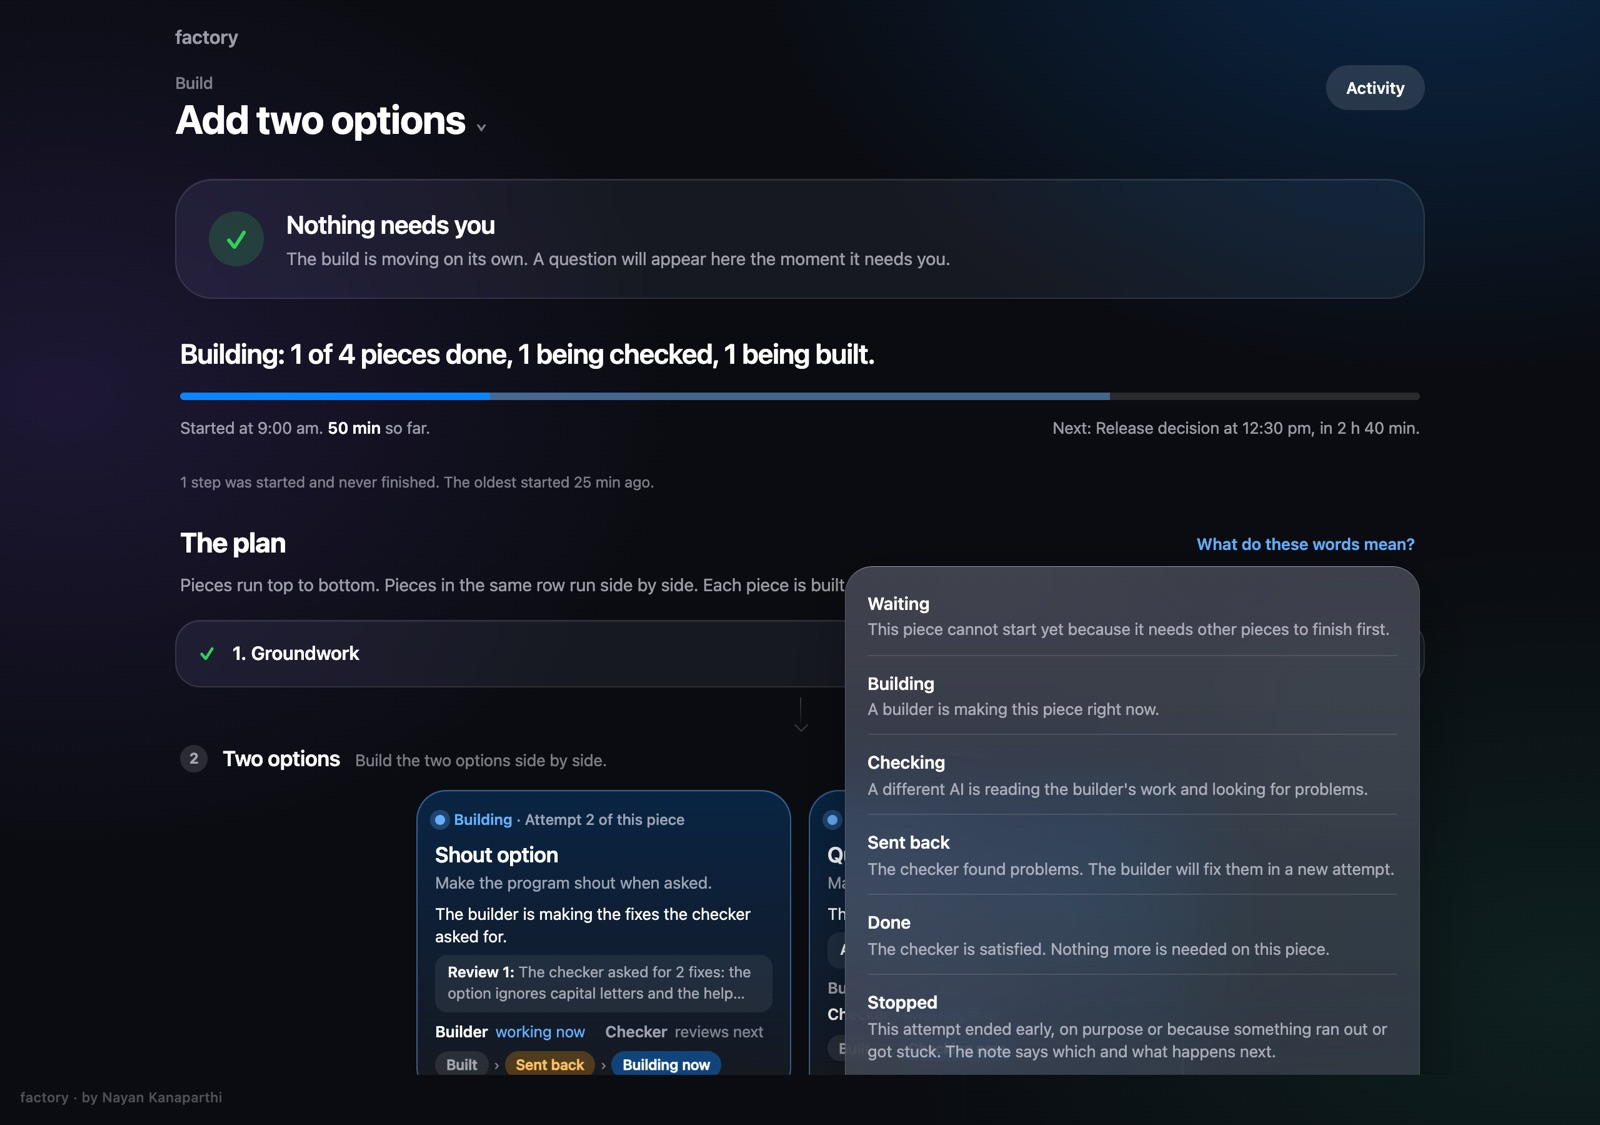
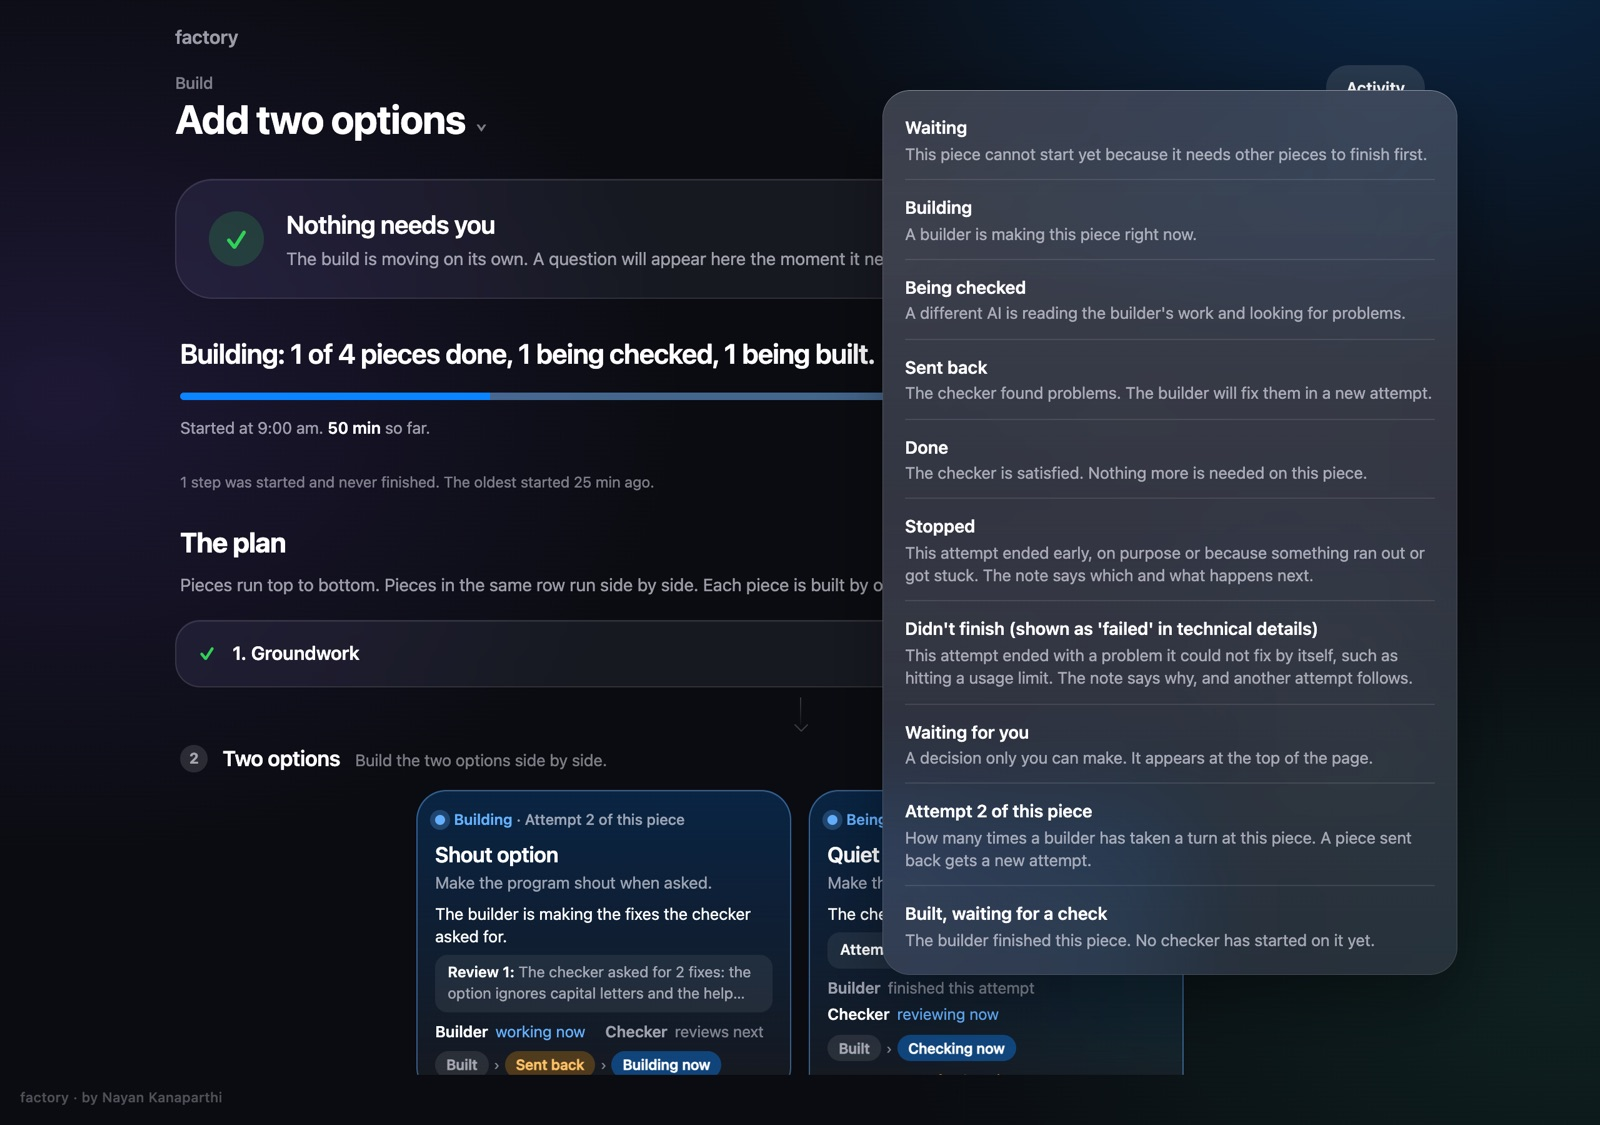
factory: small fixes after the check: finished build says how long it took, word guide matches the cards and fits, side task noted, steadier tests; new pictures

Changed region(s): [[0.5, 0.0622, 0.9375, 0.9644]]

diff --git a/skills/factory/tests/browser/dashboard-ui.js b/skills/factory/tests/browser/dashboard-ui.js
@@ -30,6 +30,16 @@ function equal(actual, expected, message) { assert.deepStrictEqual(actual, expec
 function sleep(ms) { return new Promise((resolve) => setTimeout(resolve, ms)); }
 function shot(name) { return path.join(EVIDENCE, name); }
 
+async function settleMotion(page) {
+  await page.evaluate(async () => {
+    const animations = document.getAnimations().filter((animation) => {
+      const timing = animation.effect && animation.effect.getComputedTiming();
+      return animation.playState !== 'finished' && timing && Number.isFinite(timing.endTime);
+    });
+    await Promise.all(animations.map((animation) => animation.finished.catch(() => {})));
+  });
+}
+
 function runSync(command, args, env) {
   return childProcess.spawnSync(command, args, {
     cwd: ROOT,
@@ -121,7 +131,9 @@ async function guardedPage(context, guard, address) {
 
 async function installClock(page, iso) {
   check(page.clock && typeof page.clock.install === 'function', 'Playwright page.clock is unavailable');
-  await page.clock.install({time: new Date(iso)});
+  const testTime = new Date(iso);
+  await page.clock.install({time: new Date(testTime.getTime() - 60000)});
+  await page.clock.pauseAt(testTime);
 }
 
 async function openState(browser, fixtureHome, build, options) {
@@ -185,6 +197,17 @@ async function introCases(browser, home) {
     const page = first.page;
     const intro = page.locator('#fd-intro');
     check(await intro.count() === 1, 'intro missing at DOMContentLoaded');
+    const introEnded = page.evaluate(() => new Promise((resolve) => {
+      const started = performance.now();
+      const observer = new MutationObserver(() => {
+        if (!document.getElementById('fd-intro')) {
+          observer.disconnect();
+          resolve(performance.now() - started);
+        }
+      });
+      observer.observe(document.body, {childList: true});
+    }));
+    void introEnded.catch(() => {});
     equal(await intro.getAttribute('aria-hidden'), 'true');
     equal(await page.locator('body > :first-child').getAttribute('id'), 'fd-intro');
     equal(await page.locator('[data-fx=intro-word]').innerText(), 'factory');
@@ -208,8 +231,10 @@ async function introCases(browser, home) {
     await page.clock.runFor(100);
     check(await intro.evaluate((el) => el.classList.contains('fd-out')), 'fd-out missing at 1200ms');
     check(!(await page.locator('#view-factory').evaluate((el) => el.classList.contains('fd-pre'))), 'page remained fd-pre');
-    await page.clock.runFor(350);
-    check(await intro.count() === 0, 'intro remains after 1550ms');
+    await page.clock.runFor(300);
+    const introElapsed = await introEnded;
+    check(introElapsed <= 1500, `intro exceeded its 1.5 second budget: ${introElapsed}ms`);
+    check(await intro.count() === 0, 'intro end signal fired before removal');
     equal(await page.locator('[data-fx=sentence]').innerText(), 'Building: 1 of 4 pieces done, 1 being checked, 1 being built.');
   }, true);
   await test('T-DB-45', async () => {
@@ -354,6 +379,12 @@ async function pageCases(browser, home) {
     await cleanupState(state);
   });
 
+  await test('T-DB-71', async () => {
+    const state = await openState(browser, home, 'pg-done', {seen: true}); await settleData(state.page);
+    equal(await state.page.locator('.fx2-meta-l').innerText(), 'Started at 9:00 am. Took 1 h 44 min.');
+    await cleanupState(state);
+  });
+
   await test('T-DB-54', async () => {
     const state = await openState(browser, home, 'pg1', {seen: true}); await settleData(state.page);
     await state.page.locator('[data-piece=B1]').click();
@@ -407,7 +438,30 @@ async function pageCases(browser, home) {
     const state = await openState(browser, home, 'pg1', {seen: true}); await settleData(state.page);
     await state.page.getByText('What do these words mean?', {exact: true}).click();
     equal(await state.page.locator('[data-fx=legend-row]').count(), 10);
-    equal(await state.page.locator('[data-fx=legend-title]').allInnerTexts(), ['Waiting', 'Building', 'Checking', 'Sent back', 'Done', 'Stopped', "Didn't finish (shown as 'failed' in technical details)", 'Waiting for you', 'Attempt 2 of this piece', 'Built, waiting for a check']);
+    equal(await state.page.locator('[data-fx=legend-title]').allInnerTexts(), ['Waiting', 'Building', 'Being checked', 'Sent back', 'Done', 'Stopped', "Didn't finish (shown as 'failed' in technical details)", 'Waiting for you', 'Attempt 2 of this piece', 'Built, waiting for a check']);
+    await cleanupState(state);
+  });
+
+  await test('T-DB-72', async () => {
+    const state = await openState(browser, home, 'pg1', {seen: true}); await settleData(state.page);
+    await state.page.getByText('What do these words mean?', {exact: true}).click();
+    equal(await state.page.locator('[data-fx=legend-title]').nth(2).innerText(), 'Being checked');
+    await cleanupState(state);
+  });
+
+  await test('T-DB-73', async () => {
+    const state = await openState(browser, home, 'pg1', {seen: true}); await settleData(state.page);
+    await state.page.getByText('What do these words mean?', {exact: true}).click();
+    const box = state.page.locator('.fx2-legend-box');
+    const last = state.page.locator('[data-fx=legend-row]').last();
+    const stripTop = await state.page.evaluate(() => innerHeight - 40);
+    let boxBounds = await box.boundingBox();
+    check(boxBounds.y + boxBounds.height <= stripTop, 'word guide extends behind the bottom credit strip');
+    await last.evaluate((node) => node.scrollIntoView({block: 'nearest'}));
+    boxBounds = await box.boundingBox();
+    const lastBounds = await last.boundingBox();
+    check(lastBounds.y >= boxBounds.y && lastBounds.y + lastBounds.height <= stripTop,
+      'last word guide entry is not fully visible above the bottom credit strip');
     await cleanupState(state);
   });
 
@@ -522,6 +576,7 @@ async function screenshotCases(browser, home) {
       if (action === 'legend') await state.page.getByText('What do these words mean?', {exact: true}).click();
       if (action === 'picker') await state.page.locator('[data-fx=picker]').click();
       if (action === 'narrow') check(await state.page.evaluate(() => document.documentElement.scrollWidth <= document.documentElement.clientWidth), 'narrow page overflows');
+      await settleMotion(state.page);
       await state.page.screenshot({path: shot(name), fullPage: false}); await cleanupState(state);
       check(fs.statSync(shot(name)).size >= 20000, `${name} is too small`);
     }

diff --git a/skills/factory/dashboard/app.js b/skills/factory/dashboard/app.js
@@ -12,7 +12,7 @@
   var LEGEND = [
     ['Waiting', 'This piece cannot start yet because it needs other pieces to finish first.'],
     ['Building', 'A builder is making this piece right now.'],
-    ['Checking', "A different AI is reading the builder's work and looking for problems."],
+    ['Being checked', "A different AI is reading the builder's work and looking for problems."],
     ['Sent back', 'The checker found problems. The builder will fix them in a new attempt.'],
     ['Done', 'The checker is satisfied. Nothing more is needed on this piece.'],
     ['Stopped', 'This attempt ended early, on purpose or because something ran out or got stuck. The note says which and what happens next.'],
@@ -309,8 +309,9 @@
     var meta = h('div', 'fx2-meta');
     var left = h('span', 'fx2-meta-l');
     if (str(owner.started_label, '')) {
+      var finished = st.board && st.board.build && st.board.build.state === 'done';
       text(left, 'Started at ' + owner.started_label + '. ');
-      if (str(owner.elapsed_label, '')) add(left, h('b', '', owner.elapsed_label), document.createTextNode(' so far.'));
+      if (str(owner.elapsed_label, '')) add(left, document.createTextNode(finished ? 'Took ' : ''), h('b', '', owner.elapsed_label), document.createTextNode(finished ? '.' : ' so far.'));
     }
     add(meta, left);
     if (str(owner.deadline_text, '')) add(meta, plain(fx(h('span', 'fx2-deadline', owner.deadline_text), 'deadline')));

diff --git a/skills/factory/dashboard/style.css b/skills/factory/dashboard/style.css
@@ -233,3 +233,6 @@ body::after{content:"";position:fixed;left:0;right:0;bottom:0;height:40px;z-inde
 .fd-intro-l:nth-child(6){animation-delay:.305s}
 .fd-intro-l:nth-child(7){animation-delay:.35s}
 .fd-intro-by{font-size:15px;font-weight:500;letter-spacing:.01em;color:rgba(235,235,245,.5);animation:fd-by .4s ease-out .7s both}
+
+/* The word guide never runs behind the bottom credit strip: it scrolls inside itself. */
+#view-factory .fx2-legend-box{position:fixed;top:72px;bottom:60px;right:max(24px,calc(50vw - 526px));max-height:none;overflow-y:auto;box-sizing:border-box;height:fit-content}

diff --git a/skills/factory/tests/test_plan_board.py b/skills/factory/tests/test_plan_board.py
@@ -489,6 +489,18 @@ class BoardOwnerContractTests(PageFixtureCase):
                          "Work in the log that the plan does not list.")
         self.assertEqual(extra["plan"]["pieces"][-1]["name"], "Extra work")
 
+        unlabelled_lines = pg1_lines() + [
+            start_line("q10", "2026-01-10T14:41:00Z", "maker", "Q10.maker.1", "Q10",
+                       "sonnet-5-5"),
+            end_line("q10", "2026-01-10T14:45:00Z",
+                     "The builder finished the side job. A checker reads it next."),
+        ]
+        unlabelled_build = self.make_custom("pg-unlabelled-side-job", unlabelled_lines)
+        _, unlabelled = self.board(unlabelled_build)
+        side_job = next(piece for piece in unlabelled["plan"]["pieces"]
+                        if piece["id"] == "Q10")
+        self.assertEqual(side_job["name"], "Side task")
+
         label_build = self.factory_home / "runs" / "toy" / "pg-label"
         label_build.mkdir(parents=True)
         write_jsonl(label_build / "trace.jsonl", [

diff --git a/skills/factory/tests/test_agents.py b/skills/factory/tests/test_agents.py
@@ -69,7 +69,7 @@ class RunTests(AgentCommandCase):
 
         silent = self.fake_program("silent", "pass")
         quiet = self.run_factory("run", "--actor", "x", "--call", "silent.1",
-                                 "--input", str(self.prompt), "--", str(silent))
+                                 "--input", str(self.prompt), "--", str(silent), timeout=2.0)
         self.assertEqual(quiet.returncode, 0)
         close = self.trace()[-1]
         self.assertEqual(close["output_chars"], 0)

diff --git a/CHANGELOG.md b/CHANGELOG.md
@@ -10,7 +10,7 @@ Every release of nstack gets an entry here. Each skill and plugin also keeps its
 - Plugins: discover 2.3.0, smoke-test 0.2.2.
 - Skills: factory 0.1.0. A build process for coding agents with two approval gates, a maker and a separate checker for each piece, one log and a computed report card. Python 3.9, standard library only.
 - Marketplace entry `agent-memory-design`, to install that one skill on its own.
-- factory: a local dashboard (`factory dashboard`). It shows what needs you first, one plain sentence about where the build is, the plan as stages and a card for every piece, with each attempt explained in plain words and technical details on request. Read-only, runs on your own computer only, no dependencies. Also `factory finish` to close a build, honest board words ("Built, waiting for a check"), and a model setup guide. Screenshots in `notes/factory/screenshots/`.
+- factory: a local dashboard (`factory dashboard`). It shows what needs you first, one plain sentence about where the build is, the plan as stages and a card for every piece, with each attempt explained in plain words and technical details on request. Read-only, runs on your own computer only, no dependencies. Also `factory finish` to close a build, honest board words ("Built, waiting for a check"), and a model setup guide. A finished build says how long it took. Screenshots in `notes/factory/screenshots/`.
 
 ### Changed
 - agent-memory-design 0.2.0: every number in a design says where it comes from (policy, requirement, data or default). Facts with no end date are kept true by evidence. A saved task keeps the premise it was scheduled on. A production part covers speed, volume, failures and measurements. The extraction prompt gets a test set and an offline optimizer script (GEPA). A new path reviews the memory of an agent that already exists. Line 25, where numbers come from, applies to every design; the checker enforces lines 26 to 39 only in a design that says the property applies. Designs written with 0.1 still pass once their numbers carry a source.

diff --git a/skills/factory/SKILL.md b/skills/factory/SKILL.md
@@ -80,7 +80,7 @@ Every agent call has a unique call id before it is sent: `<piece>.<role>.<try>`,
 factory run --actor maker --call N1.maker.2 --node N1 --iteration 2 --runner claude --model opus-5-5 --label "Login form" --input prompt.md -- <program> [args]
 ```
 
-`--runner` names the program family (for example `claude`, `codex`, `opencode`) and decides the data rule. `--label` is the plain piece name the owner sees on the board; without it the board says `Piece name not recorded`.
+`--runner` names the program family (for example `claude`, `codex`, `opencode`) and decides the data rule. `--label` is the plain piece name the owner sees on the board; without it the board says `Piece name not recorded`. A side job started without a label shows as `Side task`.
 
 Use `--input-as-arg` when the program wants the prompt as its last argument. A prompt typed only on the command line is refused: it must be in a file. [enforced by code]
 
